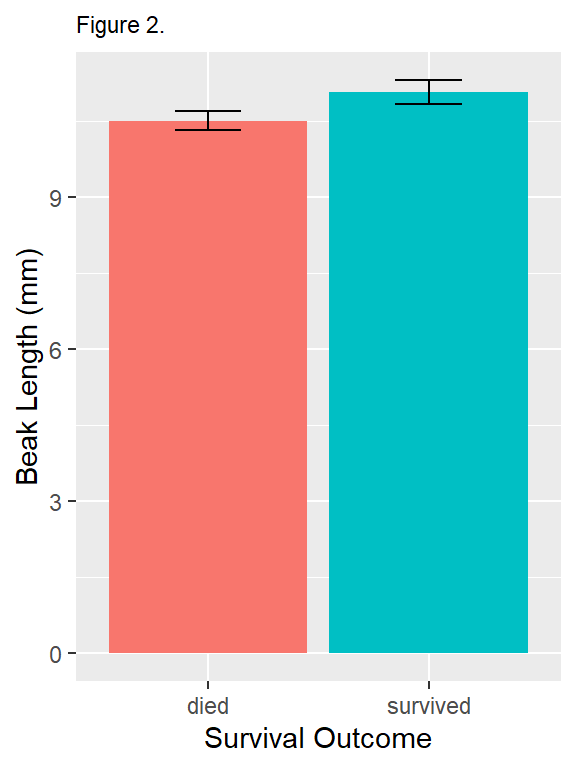
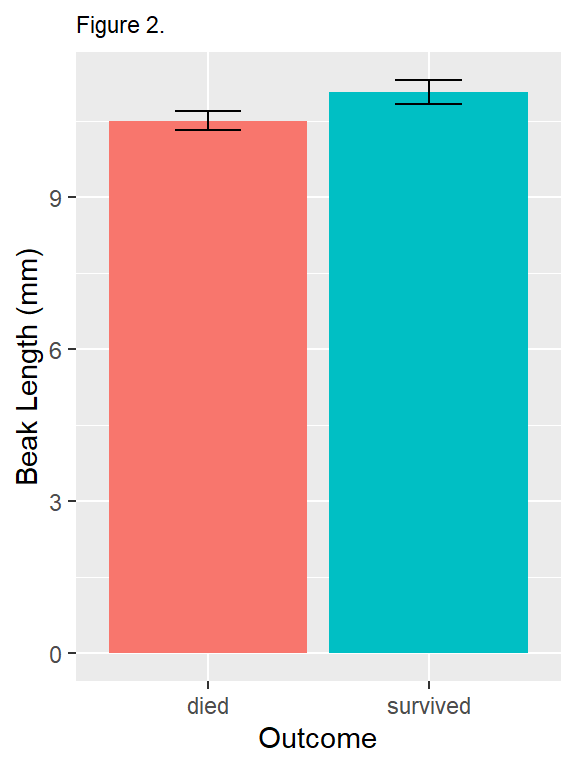
Change survival outcome to outcome

Changed region(s): [[0.3438, 0.9375, 0.75, 1.0]]

diff --git a/lab1_3_finch.html b/lab1_3_finch.html
@@ -632,7 +632,7 @@ To look at an object you have just created, print it to the console window by <s
 <p>When sharing your figure with others, for example in a report or peer-reviewed journal article, you should always include a figure legend.</p>
 <p>A good figure legend for this histogram would be:</p>
 <blockquote class="text-info">
-Figure 1. <strong>Distribution of beak lengths among medium ground finches (<i>Geospiza fortis</i>) grouped by survival outcome during the 1977 drought on Daphne Major, Galapagos archipelago.</strong> Each sample consisted of 50 individuals. Birds were banded and measured during 1975-1977 and resighted in 1978.
+Figure 1. <strong>Distribution of beak lengths among medium ground finches (<i>Geospiza fortis</i>) grouped by outcome during the 1977 drought on Daphne Major, Galapagos archipelago.</strong> Each sample consisted of 50 individuals. Birds were banded and measured during 1975-1977 and resighted in 1978.
 </blockquote>
 <div id="export-your-figure" class="section level4">
 <h4>Export your figure</h4>
@@ -689,7 +689,7 @@ Figure 1. <strong>Distribution of beak lengths among medium ground finches (<i>G
 <span id="cb16-16"><a href="#cb16-16"></a><span class="st">  </span><span class="kw">guides</span>(<span class="dt">fill =</span> <span class="ot">FALSE</span>) <span class="op">+</span><span class="st">                </span><span class="co"># don&#39;t show a legend for fill color</span></span>
 <span id="cb16-17"><a href="#cb16-17"></a><span class="st">  </span><span class="kw">labs</span>(</span>
 <span id="cb16-18"><a href="#cb16-18"></a>    <span class="dt">title =</span> <span class="st">&quot;Figure 2.&quot;</span>,                <span class="co"># title</span></span>
-<span id="cb16-19"><a href="#cb16-19"></a>    <span class="dt">x =</span> <span class="st">&quot;Survival Outcome&quot;</span>,             <span class="co"># x-axis label</span></span>
+<span id="cb16-19"><a href="#cb16-19"></a>    <span class="dt">x =</span> <span class="st">&quot;Outcome&quot;</span>,                      <span class="co"># x-axis label</span></span>
 <span id="cb16-20"><a href="#cb16-20"></a>    <span class="dt">y =</span> <span class="st">&quot;Beak Length (mm)&quot;</span>              <span class="co"># y-axis label</span></span>
 <span id="cb16-21"><a href="#cb16-21"></a>  ) <span class="op">+</span></span>
 <span id="cb16-22"><a href="#cb16-22"></a><span class="st">  </span><span class="kw">theme</span>(<span class="dt">plot.title =</span> <span class="kw">element_text</span>(<span class="dt">size =</span> <span class="kw">rel</span>(.<span class="dv">8</span>)))  <span class="co"># make title smaller</span></span></code></pre></div>

diff --git a/lab2.html b/lab2.html
@@ -468,7 +468,7 @@ Does the number of trichomes on Fast Plants (<i>Brassica rapa</i>) plants vary b
 <span id="cb1-8"><a href="#cb1-8"></a><span class="st">  </span><span class="kw">facet_wrap</span>(<span class="op">~</span><span class="st"> </span>outcome, <span class="dt">ncol =</span> <span class="dv">1</span>) <span class="op">+</span><span class="st">   </span><span class="co"># put each outcome in its own panel</span></span>
 <span id="cb1-9"><a href="#cb1-9"></a><span class="st">  </span><span class="kw">labs</span>(</span>
 <span id="cb1-10"><a href="#cb1-10"></a>    <span class="dt">title =</span> <span class="st">&quot;Distribution of beak lengths&quot;</span>,</span>
-<span id="cb1-11"><a href="#cb1-11"></a>    <span class="dt">subtitle =</span> <span class="st">&quot;Grouped by bird sex and survival outcome&quot;</span>,</span>
+<span id="cb1-11"><a href="#cb1-11"></a>    <span class="dt">subtitle =</span> <span class="st">&quot;Grouped by sex and outcome&quot;</span>,</span>
 <span id="cb1-12"><a href="#cb1-12"></a>    <span class="dt">x =</span> <span class="st">&quot;Beak Length (mm)&quot;</span>,</span>
 <span id="cb1-13"><a href="#cb1-13"></a>    <span class="dt">y =</span> <span class="st">&quot;Number of Birds&quot;</span></span>
 <span id="cb1-14"><a href="#cb1-14"></a>  )</span></code></pre></div>
